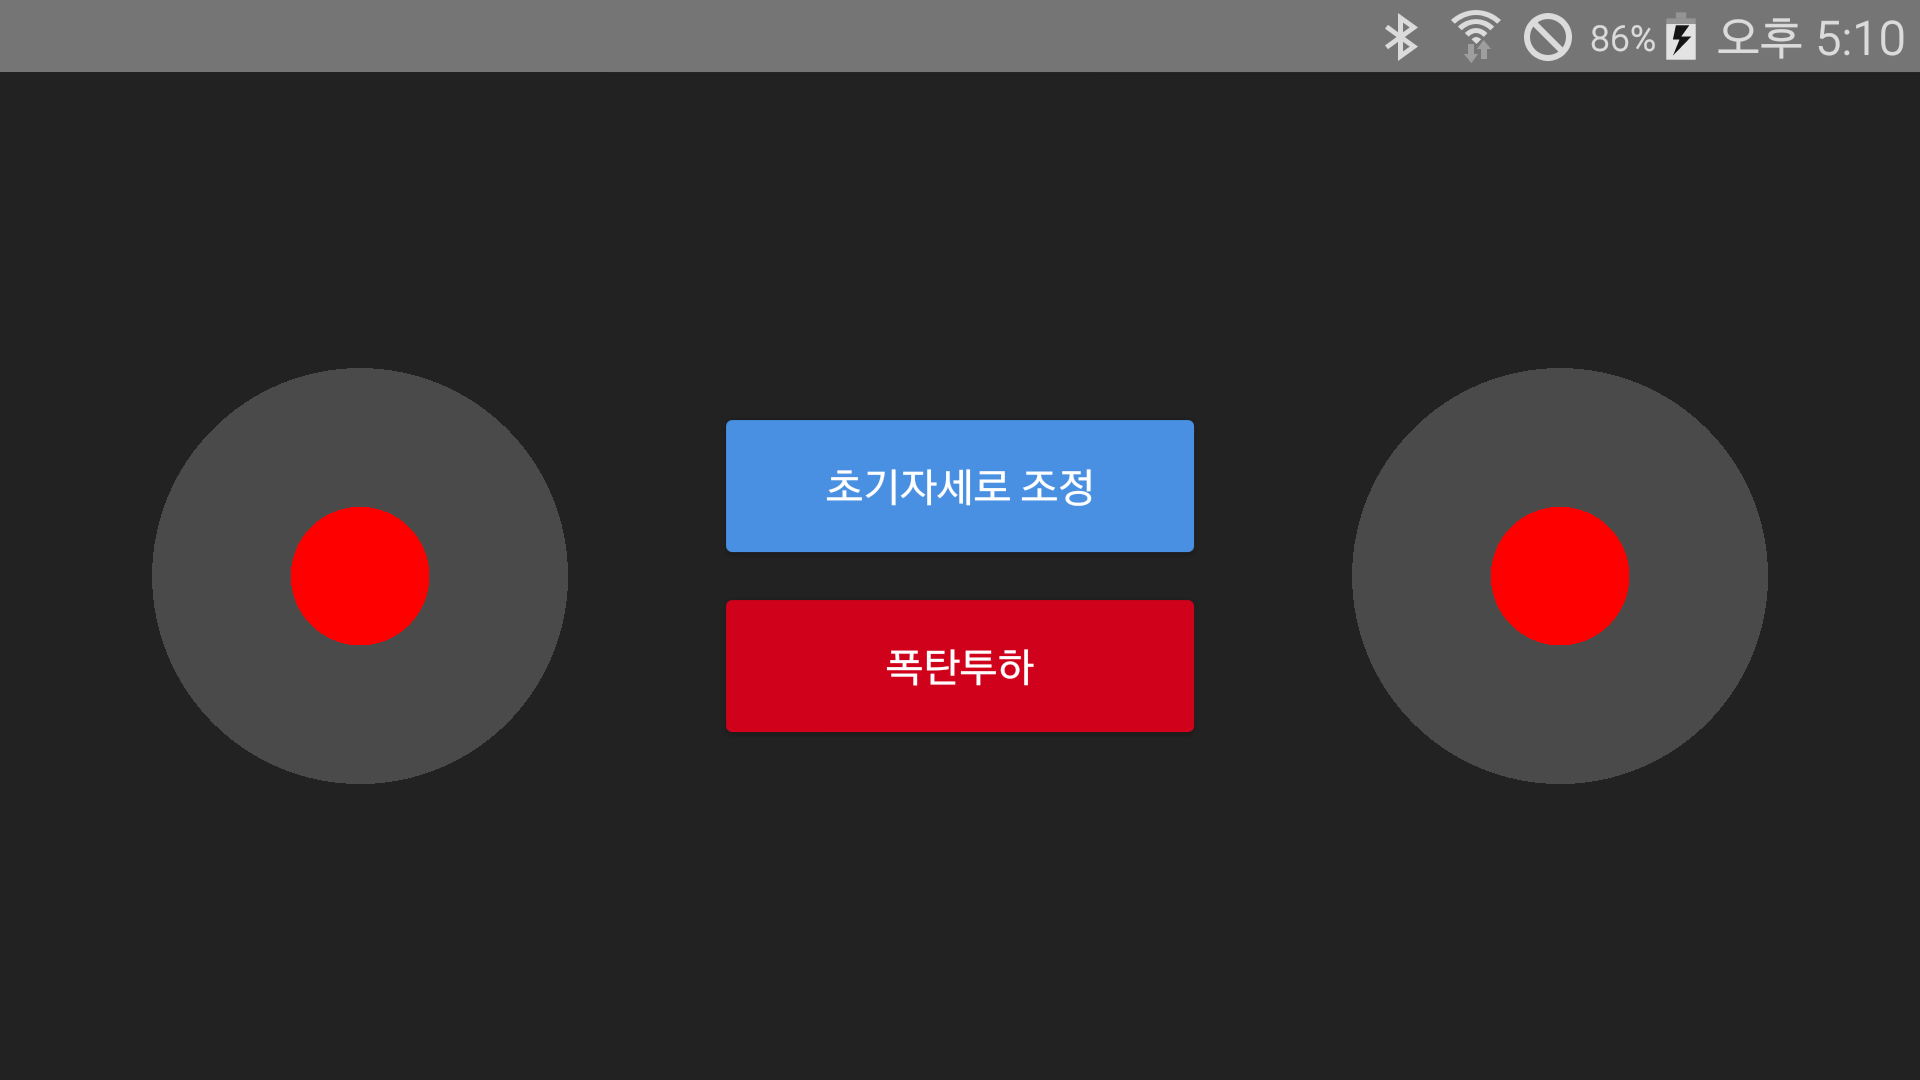
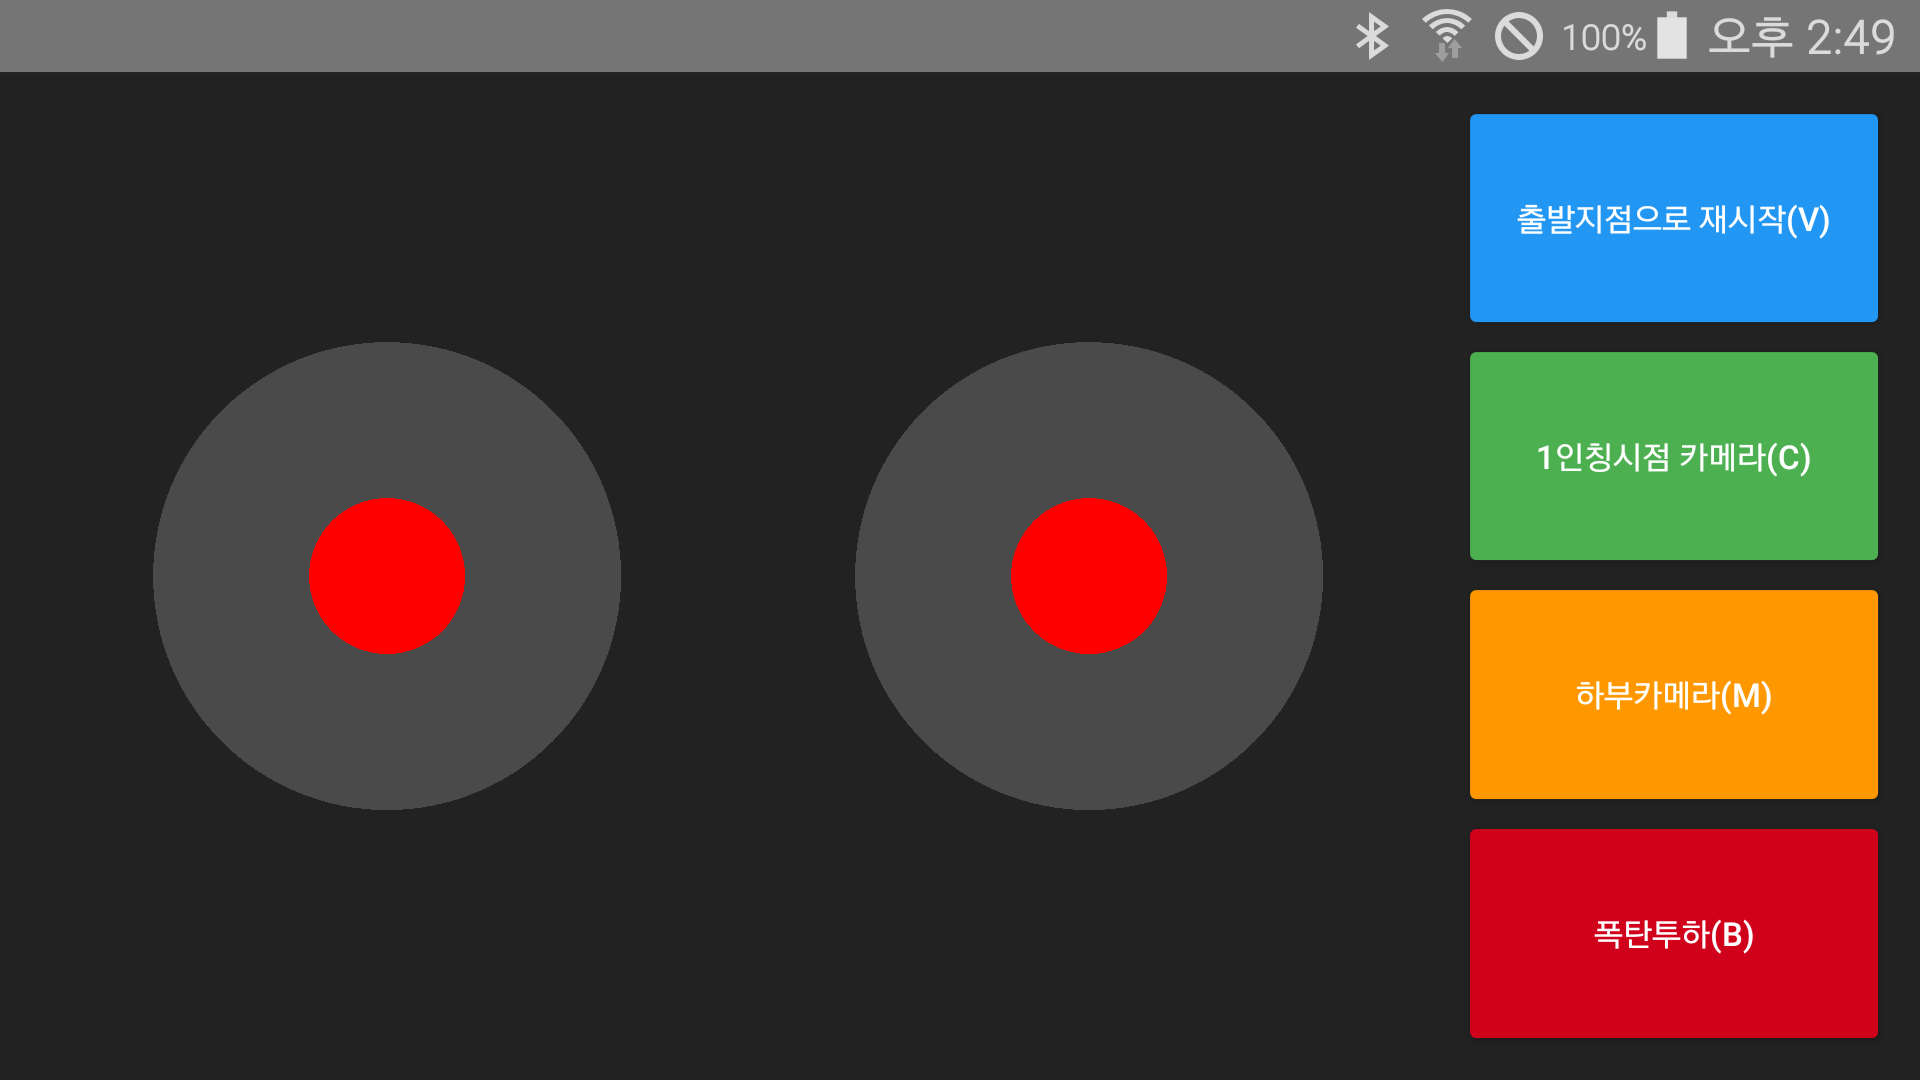
출발지점으로 재시작, 1인칭시점과 하부카메라 및 폭탄투하 버튼 기능추가

diff --git a/app/src/main/java/com/example/socketdronesimulation/MainActivity.kt b/app/src/main/java/com/example/socketdronesimulation/MainActivity.kt
@@ -17,6 +17,9 @@ class MainActivity : AppCompatActivity() {
     // drone.js 기준 기본값 데이터 구조체
     private var currentControls = DroneControls()
 
+    private var isFpvCamera = false
+    private var isBottomCamera = false
+
     override fun onCreate(savedInstanceState: Bundle?) {
         super.onCreate(savedInstanceState)
         setContentView(R.layout.activity_main)
@@ -25,8 +28,9 @@ class MainActivity : AppCompatActivity() {
 
         val joystickLeft = findViewById<JoystickView>(R.id.joystickLeft)
         val joystickRight = findViewById<JoystickView>(R.id.joystickRight)
-        val btnReset = findViewById<Button>(R.id.btnReset)
-        val btnDropBomb = findViewById<Button>(R.id.btnDropBomb)
+        val btnC = findViewById<Button>(R.id.btnC)
+        val btnM = findViewById<Button>(R.id.btnM)
+        val btnB = findViewById<Button>(R.id.btnB)
 
         // 왼쪽 조이스틱: 수직 제어부 (Yaw / Throttle)
         joystickLeft.onJoystickMoveListener = { x, y ->
@@ -52,25 +56,55 @@ class MainActivity : AppCompatActivity() {
             sendControlData()
         }
 
-        // 초기자세 조정 버튼
-        btnReset.setOnClickListener {
+        // V (출발지점으로 재시작) 버튼 추가 및 클릭 리스너 설정
+        val btnV = findViewById<Button>(R.id.btnV)
+
+        btnV.setOnClickListener {
+            // 1. 앱 내부 조이스틱 및 컨트롤 변수 초기화 (134 = 원점)
             currentControls.roll = 134
             currentControls.pitch = 134
             currentControls.yaw = 134
             currentControls.throttle = 134
             currentControls.leftSwitch = 0
-            currentControls.gear = 0
+            currentControls.gear = 100 // 카메라 및 시점 초기화 범위 값
+
+            isFpvCamera = false
+            isBottomCamera = false
 
             joystickLeft.resetJoystick()
             joystickRight.resetJoystick()
 
-            sendControlData(action = "reset")
+            // 2. drone.js에 resetDrone() 실행을 요청하는 웹소켓 전송
+            sendControlData(key = "V", action = "reset")
         }
 
-        // 폭탄투하 버튼
-        btnDropBomb.setOnClickListener {
-            currentControls.leftSwitch = 1
-            sendControlData(action = "dropBomb")
+        // C: 1인칭시점 카메라 (toggleDroneView / gear: 10~20)
+        btnC.setOnClickListener {
+            isFpvCamera = !isFpvCamera
+            isBottomCamera = false
+
+            // drone.js: 10 < gear < 20 -> droneView = true, 90 < gear < 110 -> camera reset
+            currentControls.gear = if (isFpvCamera) 15 else 100
+
+            sendControlData(key = "C", action = "toggleDroneView")
+        }
+
+        // M: 하부카메라 (toggleBottomView / gear: 20~50)
+        btnM.setOnClickListener {
+            isBottomCamera = !isBottomCamera
+            isFpvCamera = false
+
+            // drone.js: 20 < gear < 50 -> bottomView = true, 90 < gear < 110 -> camera reset
+            currentControls.gear = if (isBottomCamera) 30 else 100
+
+            sendControlData(key = "M", action = "toggleBottomView")
+        }
+
+        // B: 폭탄투하 (dropBomb / leftSwitch: -1)
+        btnB.setOnClickListener {
+            // drone.js: leftSwitch == -1 -> bombDropped = true
+            currentControls.leftSwitch = -1
+            sendControlData(key = "B", action = "dropBomb")
             currentControls.leftSwitch = 0
         }
     }
@@ -82,7 +116,8 @@ class MainActivity : AppCompatActivity() {
 
         // 대상 웹소켓 서버 주소 기입 (예: 드론 시뮬레이터 서버 주소)
         val request = Request.Builder()
-            .url("wss://webbasedronesimulation.onrender.com") // 에뮬레이터에서 PC 로컬 호스트 접속 시 주소 ws://192.168.123.168:8080
+            //.url("wss://webbasedronesimulation.onrender.com") // 에뮬레이터에서 클라우드 플랫폼 접속
+            .url("ws://192.168.1.3:8080") // 에뮬레이터에서 PC 로컬 호스트 접속 시
             .build()
 
         val listener = object : WebSocketListener() {
@@ -108,7 +143,7 @@ class MainActivity : AppCompatActivity() {
     }
 
     // JSON 객체를 생성하여 웹소켓으로 송신
-    private fun sendControlData(action: String? = null) {
+    private fun sendControlData(key: String? = null, action: String? = null) {
         val json = JSONObject().apply {
             put("roll", currentControls.roll)
             put("pitch", currentControls.pitch)
@@ -116,8 +151,14 @@ class MainActivity : AppCompatActivity() {
             put("throttle", currentControls.throttle)
             put("leftSwitch", currentControls.leftSwitch)
             put("gear", currentControls.gear)
+            if (key != null) {
+                put("key", key)
+            }
             if (action != null) {
                 put("action", action)
+                if (action == "reset") {
+                    put("V", true)
+                }
                 if (action == "dropBomb") {
                     put("bomb", true)
                 }
